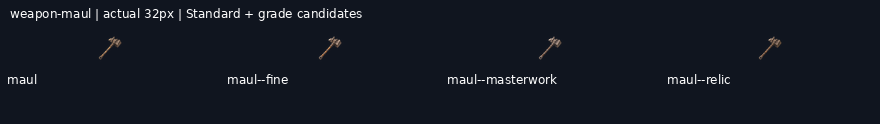
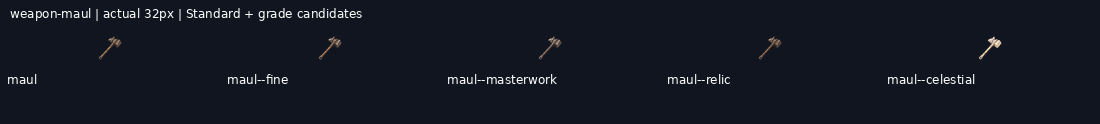
art: draw weapon-maul--celestial grade candidate

diff --git a/art/_archive/gear/2026-11-19-kept-blade-grades/HANDOFF.md b/art/_archive/gear/2026-11-19-kept-blade-grades/HANDOFF.md
@@ -1,9 +1,9 @@
 # Kept-blade grade candidates
 
-**24/32 grade candidates delivered** on `art/2026-11-19-kept-blade-grades`. Shared mailbox: https://github.com/leonpentastorm/Project-Heaven-Cry/issues/3 . See claim.json for this lane’s current Standards. Released overlapping blades reuse12 peer candidates, with3 local alternatives archived.
+**25/32 grade candidates delivered** on `art/2026-11-19-kept-blade-grades`. Shared mailbox: https://github.com/leonpentastorm/Project-Heaven-Cry/issues/3 . See claim.json for this lane’s current Standards. Released overlapping blades reuse12 peer candidates, with3 local alternatives archived.
 
 Leon requested continuous candidate production; proof approval is not fabricated. All candidates remain review-candidate, production_approved:false, implementation_ready:false, with outline.review_required:true. Exact outline is measured, never asserted unless the masks match. Per-image registration is uniform scaling/translation only, without warp, silhouette masks, filled pixels or code-drawn substitutes. The generated native remains untouched.
 
 Each image is generated, shown, technically exported, validated, committed and pushed before the next. Sources, versioned masters, exact prompts/reference hashes,256/128/64/32 exports and grade comparison sheets are retained. Standards and earlier deliveries are unchanged. This sparse checkout cannot validate omitted historical files; full-library validation/build is an integration check on a full checkout.
 
-Remaining: weapon-ork_machete--masterwork, weapon-ork_machete--relic, weapon-ork_machete--celestial, weapon-war_axe--fine, weapon-war_axe--masterwork, weapon-war_axe--relic, weapon-war_axe--celestial, weapon-maul--celestial.
+Remaining: weapon-ork_machete--masterwork, weapon-ork_machete--relic, weapon-ork_machete--celestial, weapon-war_axe--fine, weapon-war_axe--masterwork, weapon-war_axe--relic, weapon-war_axe--celestial.
